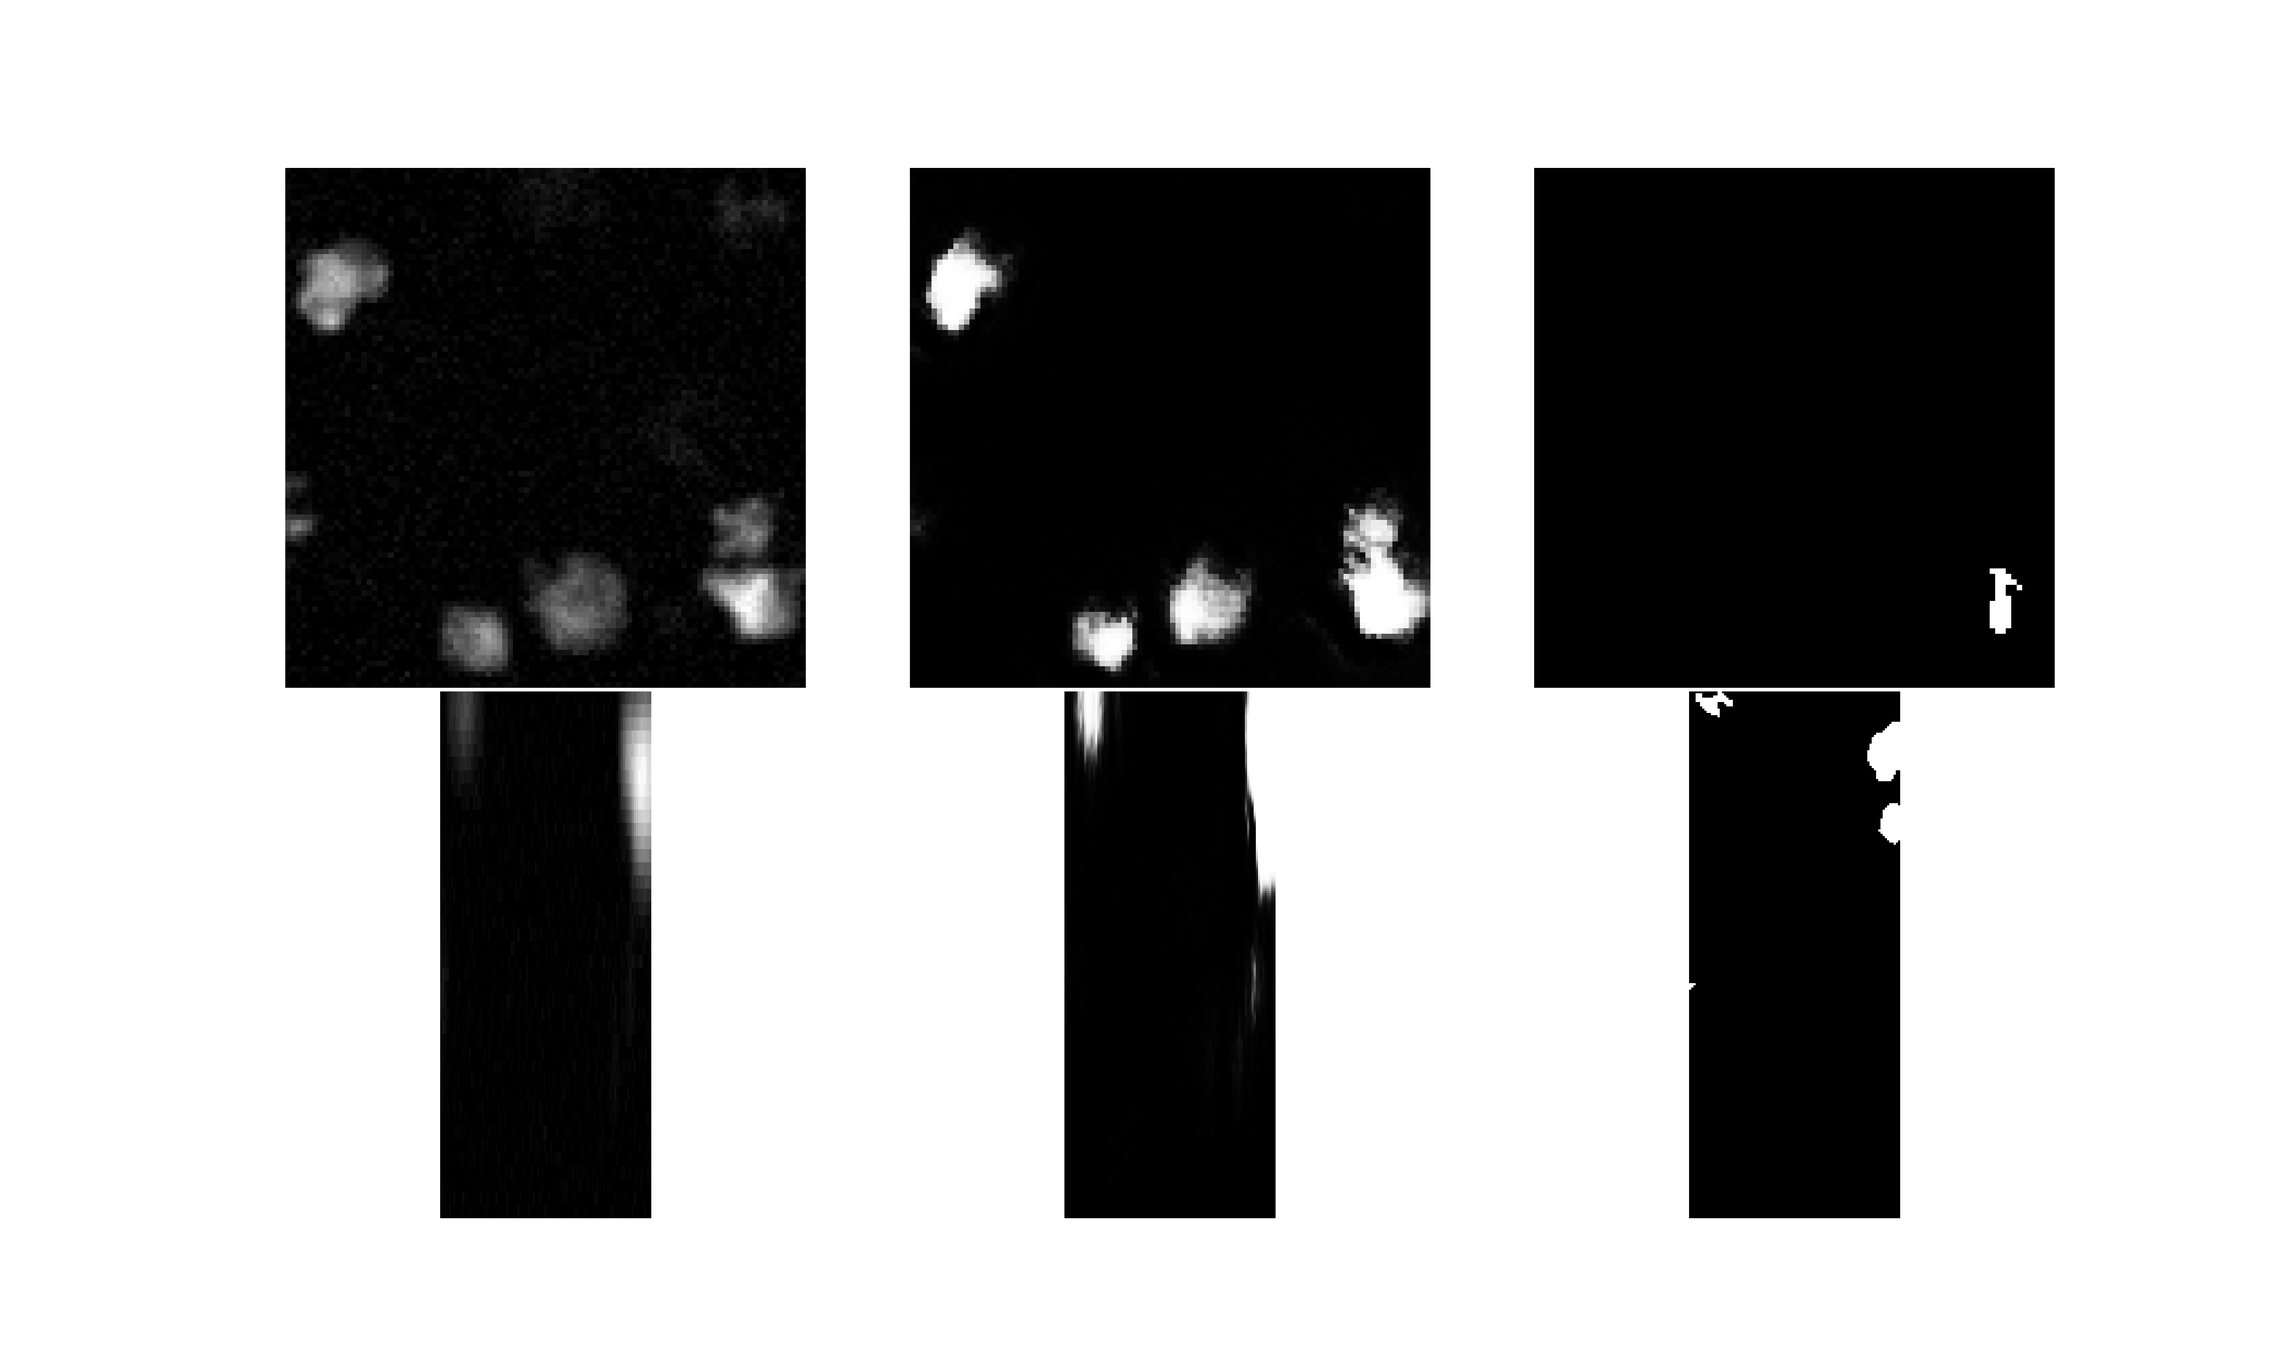
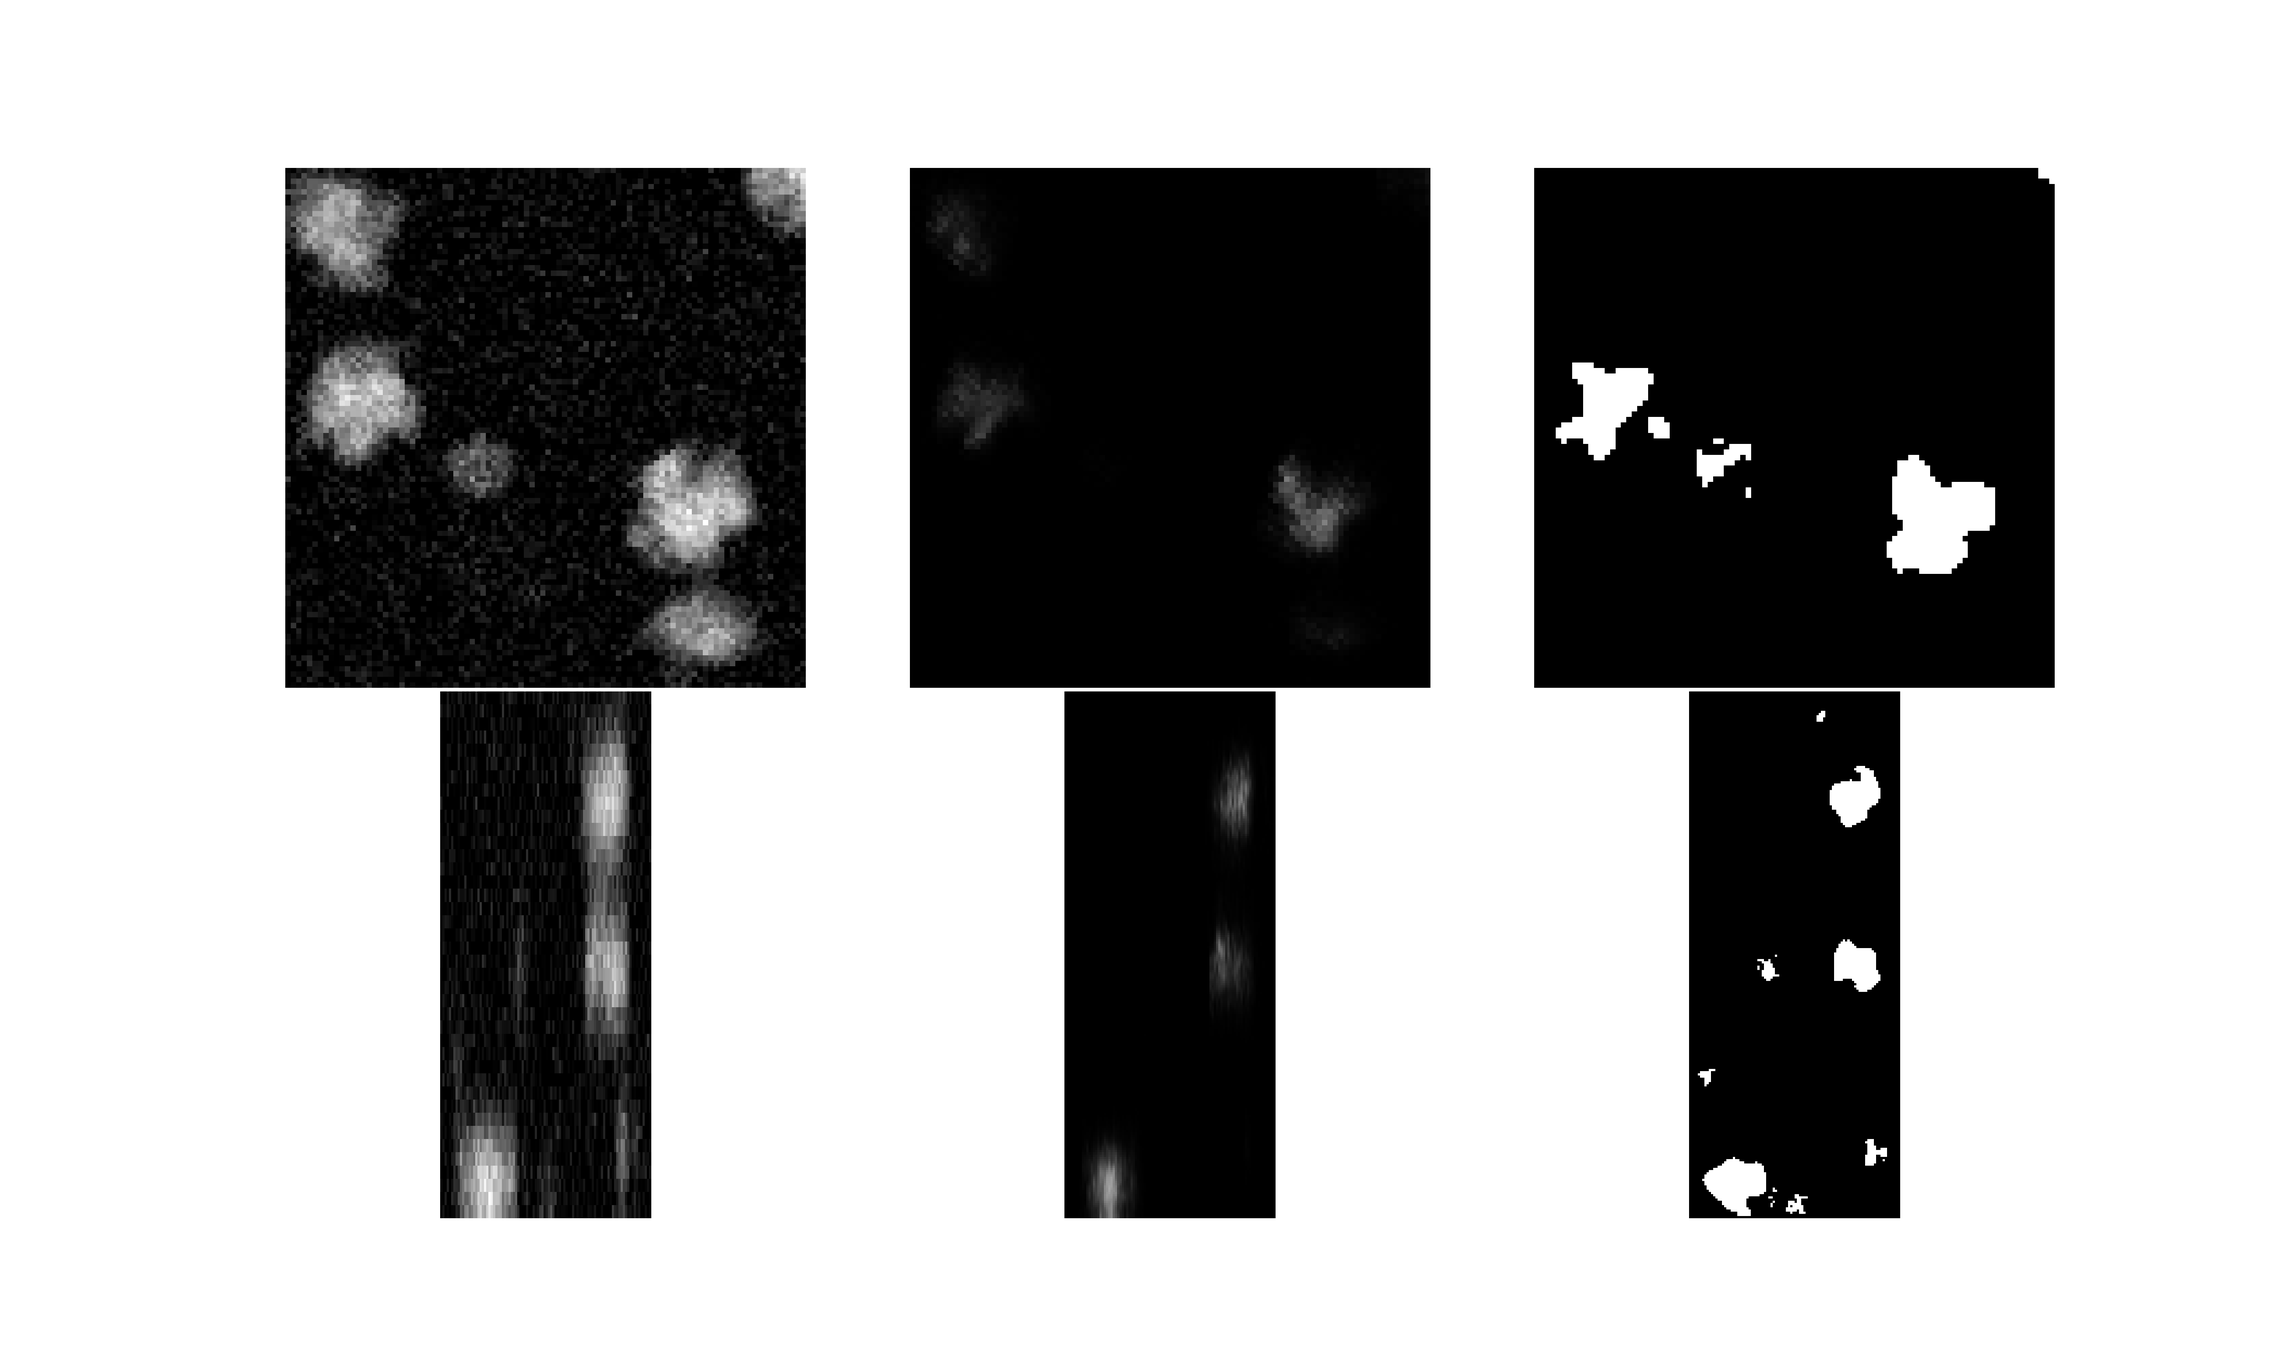
219 inference done

diff --git a/inference.py b/inference.py
@@ -1,5 +1,7 @@
+import os
 import torch
 import torch.nn as nn
+from torch.utils.data import DataLoader
 import matplotlib.pyplot as plt
 from dataset import LabelandBlurParamsDataset, gen_imaging_parameters, Augmentation
 import model
@@ -31,12 +33,12 @@ params               = {"mu_z"   : 0.2    ,
                         "scale"  : 6
                         }
 
-params_ranges = {"mu_z"   : [0,   1., 0.2,  0.001 ],
-                 "sig_z"  : [0,   1., 0.2 ,  0.001 ],
-                 "bet_z"  : [0 , 22.,  20.  ,  0.001 ],
-                 "bet_xy" : [0,   2.,   1. ,  0.001 ],
-                 "alpha"  : [0,   2.,   1. ,  0.001 ],
-                 "sig_eps": [0, 0.012, 0.01, 0.001 ],
+params_ranges = {"mu_z"   : [0,   1, 0.2  ,  0.0001 ],
+                 "sig_z"  : [0,   1, 0.2  ,  0.0001 ],
+                 "bet_z"  : [0 , 22,  20  ,  0.0001 ],
+                 "bet_xy" : [0,   2,   1. ,  0.0001 ],
+                 "alpha"  : [0,   2,   1. ,  0.0001 ],
+                 "sig_eps": [0, 0.012, 0.01, 0.0001 ],
                  "scale"  : [6]
                  }
 
@@ -45,7 +47,6 @@ param_scales = {"mu_z"   :  1,
                 "bet_z"  : 22,
                 "bet_xy" :  2,
                 "alpha"  :  2,}
-
 
 image_size = (1, 1, 240,  96,  96)
 original_cropsize = [360, 120, 120]
@@ -62,13 +63,14 @@ JNet = model.JNet(hidden_channels_list  = hidden_channels_list ,
                   apply_vq              = False                ,
                   )
 JNet = JNet.to(device = device)
+JNet.load_state_dict(torch.load(f'model/{model_name}.pt'), strict=False)
 
 val_dataset   = LabelandBlurParamsDataset(folderpath           = "_var_num_beadsdataset"                  ,
                                           size                 = (1200, 500, 500)                         ,
                                           cropsize             = original_cropsize                        ,
-                                          I                    = 10                                       ,
+                                          I                    = 20                                       ,
                                           low                  = 16                                       ,
-                                          high                 = 19                                       ,
+                                          high                 = 20                                       ,
                                           imaging_function     = JNet.image                               ,
                                           imaging_params_range = params_ranges                            ,
                                           validation_params    = gen_imaging_parameters(params_ranges)    ,
@@ -93,14 +95,22 @@ augment_param     = {"mask"          : False            ,
 
 val_augment = Augmentation(augment_param)
 
-JNet.load_state_dict(torch.load(f'model/{model_name}.pt'), strict=False)
+val_loader  = DataLoader(val_dataset                   ,
+                         batch_size  = 4               ,
+                         shuffle     = False           ,
+                         pin_memory  = True            ,
+                         num_workers = os.cpu_count()  ,
+                         )
+
 JNet.eval()
-for n in range(0,5):
-    label  = val_dataset[n][0].to(device = device)
-    params = val_dataset[n][1]
-    label = label.unsqueeze(0)
+count = 0
+for val_data in val_loader:
+    
+    label  = val_data[0].to(device = device)
+    params = val_data[1]
     image  = JNet.image.sample_from_params(label, params).float()
     image, label = val_augment.crop(image, label)
+    JNet.set_upsample_rate(params["scale"][0])
     outdict= JNet(image)
     output = outdict["enhanced_image"]
     reconst= outdict["reconstruction"]
@@ -108,70 +118,72 @@ for n in range(0,5):
     est_params = outdict["blur_parameter"]
     lossfunc = nn.BCELoss()
     print(lossfunc(output.detach().cpu(), label.detach().cpu()))
-    
-    image   = image.squeeze(0).detach().cpu().numpy()
-    label   = label.squeeze(0).detach().cpu().numpy()
-    output  = output.squeeze(0).detach().cpu().numpy()
-    reconst = reconst.squeeze(0).detach().cpu().numpy()
-    fig = plt.figure(figsize=(25, 15))
-    ax1 = fig.add_subplot(231)
-    ax2 = fig.add_subplot(232)
-    ax3 = fig.add_subplot(233)
-    ax4 = fig.add_subplot(234)
-    ax5 = fig.add_subplot(235)
-    ax6 = fig.add_subplot(236)
-    #ax7 = fig.add_subplot(247)
-    #ax8 = fig.add_subplot(248)
-    ax1.set_axis_off()
-    ax2.set_axis_off()
-    ax3.set_axis_off()
-    ax4.set_axis_off()
-    ax5.set_axis_off()
-    ax6.set_axis_off()
-    #ax7.set_axis_off()
-    #ax8.set_axis_off()
-    #ax1.set_title('plain\nreconstruct image')
-    #ax2.set_title('plain\noriginal image')
-    #ax3.set_title('plain\nsegmentation result')
-    #ax4.set_title('plain\nlabel')
-    #ax5.set_title('depth\nreconstruct')
-    #ax6.set_title('depth\noriginal image')
-    #ax7.set_title('depth\nsegmentation result')
-    #ax8.set_title('depth\nlabel')
-    plt.subplots_adjust(hspace=-0.0)
-    if partial is not None:
-        ax1.imshow(reconst[0, partial[0]+j_s, :, :],
-                cmap='gray', vmin=0.0, vmax=1.0, aspect=1)
-        ax2.imshow(image[0, partial[0]+j_s, :, :].to(device='cpu'),
-                cmap='gray', vmin=0.0, vmax=1.0, aspect=1)
-        ax3.imshow(output[0, 0, partial[0]+j_s, :, :],
-                cmap='gray', vmin=0.0, vmax=1.0, aspect=1)
-        ax4.imshow(label[0, partial[0]+j, :, :].to(device='cpu'),
-                cmap='gray', vmin=0.0, vmax=1.0, aspect=1)
-        ax5.imshow(reconst[0, partial[0]:partial[1], i, :],
-                cmap='gray', vmin=0.0, vmax=1.0, aspect=scale)
-        ax6.imshow(image[0, partial[0]:partial[1], i, :].to(device='cpu'),
-                cmap='gray', vmin=0.0, vmax=1.0, aspect=scale)
-        #ax7.imshow(output[0, 0, partial[0]:partial[1], i, :],
-        #        cmap='gray', vmin=0.0, vmax=1.0, aspect=1)
-        #ax8.imshow(label[0, partial[0]:partial[1], i, :].to(device='cpu'),
-        #        cmap='gray', vmin=0.0, vmax=1.0, aspect=1)
-    else:
-        #ax1.imshow(reconst[0, j_s, :, :],
-        #        cmap='gray', vmin=0.0, vmax=1.0, aspect=1)
-        ax1.imshow(image[0, j_s, :, :],
-                cmap='gray', vmin=0.0, aspect=1)
-        ax2.imshow(output[0, j, :, :],
-                cmap='gray', vmin=0.0, vmax=1.0, aspect=1)
-        ax3.imshow(label[0, j, :, :],
-                cmap='gray', vmin=0.0, vmax=1.0, aspect=1)
-        #ax5.imshow(reconst[0, :, i, :],
-        #        cmap='gray', vmin=0.0, vmax=1.0, aspect=scale)
-        ax4.imshow(image[0, :, i, :],
-                cmap='gray', vmin=0.0, aspect=scale)
-        ax5.imshow(output[0, :, i, :],
-                cmap='gray', vmin=0.0, vmax=1.0, aspect=1)
-        ax6.imshow(label[0, :, i, :],
-                cmap='gray', vmin=0.0, vmax=1.0, aspect=1)
-    plt.savefig(f'result/{model_name}_result{n}.png', format='png', dpi=250)
-    
+    num = image.shape[0]
+    print(image.shape)
+    for n in range(num):
+        _image   = image[n].detach().cpu().numpy()
+        _label   = label[n].detach().cpu().numpy()
+        _output  = output[n].detach().cpu().numpy()
+        _reconst = reconst[n].detach().cpu().numpy()
+        fig = plt.figure(figsize=(25, 15))
+        ax1 = fig.add_subplot(231)
+        ax2 = fig.add_subplot(232)
+        ax3 = fig.add_subplot(233)
+        ax4 = fig.add_subplot(234)
+        ax5 = fig.add_subplot(235)
+        ax6 = fig.add_subplot(236)
+        #ax7 = fig.add_subplot(247)
+        #ax8 = fig.add_subplot(248)
+        ax1.set_axis_off()
+        ax2.set_axis_off()
+        ax3.set_axis_off()
+        ax4.set_axis_off()
+        ax5.set_axis_off()
+        ax6.set_axis_off()
+        #ax7.set_axis_off()
+        #ax8.set_axis_off()
+        #ax1.set_title('plain\nreconstruct image')
+        #ax2.set_title('plain\noriginal image')
+        #ax3.set_title('plain\nsegmentation result')
+        #ax4.set_title('plain\nlabel')
+        #ax5.set_title('depth\nreconstruct')
+        #ax6.set_title('depth\noriginal image')
+        #ax7.set_title('depth\nsegmentation result')
+        #ax8.set_title('depth\nlabel')
+        plt.subplots_adjust(hspace=-0.0)
+        if partial is not None:
+            ax1.imshow(_reconst[0, partial[0]+j_s, :, :],
+                    cmap='gray', vmin=0.0, vmax=1.0, aspect=1)
+            ax2.imshow(_image[0, partial[0]+j_s, :, :].to(device='cpu'),
+                    cmap='gray', vmin=0.0, vmax=1.0, aspect=1)
+            ax3.imshow(_output[0, 0, partial[0]+j_s, :, :],
+                    cmap='gray', vmin=0.0, vmax=1.0, aspect=1)
+            ax4.imshow(_label[0, partial[0]+j, :, :].to(device='cpu'),
+                    cmap='gray', vmin=0.0, vmax=1.0, aspect=1)
+            ax5.imshow(_reconst[0, partial[0]:partial[1], i, :],
+                    cmap='gray', vmin=0.0, vmax=1.0, aspect=scale)
+            ax6.imshow(_image[0, partial[0]:partial[1], i, :].to(device='cpu'),
+                    cmap='gray', vmin=0.0, vmax=1.0, aspect=scale)
+            #ax7.imshow(output[0, 0, partial[0]:partial[1], i, :],
+            #        cmap='gray', vmin=0.0, vmax=1.0, aspect=1)
+            #ax8.imshow(label[0, partial[0]:partial[1], i, :].to(device='cpu'),
+            #        cmap='gray', vmin=0.0, vmax=1.0, aspect=1)
+        else:
+            #ax1.imshow(reconst[0, j_s, :, :],
+            #        cmap='gray', vmin=0.0, vmax=1.0, aspect=1)
+            ax1.imshow(_image[0, j_s, :, :],
+                    cmap='gray', vmin=0.0, aspect=1)
+            ax2.imshow(_output[0, j, :, :],
+                    cmap='gray', vmin=0.0, vmax=1.0, aspect=1)
+            ax3.imshow(_label[0, j, :, :],
+                    cmap='gray', vmin=0.0, vmax=1.0, aspect=1)
+            #ax5.imshow(reconst[0, :, i, :],
+            #        cmap='gray', vmin=0.0, vmax=1.0, aspect=scale)
+            ax4.imshow(_image[0, :, i, :],
+                    cmap='gray', vmin=0.0, aspect=scale)
+            ax5.imshow(_output[0, :, i, :],
+                    cmap='gray', vmin=0.0, vmax=1.0, aspect=1)
+            ax6.imshow(_label[0, :, i, :],
+                    cmap='gray', vmin=0.0, vmax=1.0, aspect=1)
+        plt.savefig(f'result/{model_name}_result{count}_{n}.png', format='png', dpi=250)
+    count += 1

diff --git a/train_runner.py b/train_runner.py
@@ -43,7 +43,7 @@ param_scales = {"mu_z"   :  1,
 
 paramscaler = ParamScaler(param_scales)
 
-model_name           = 'JNet_221_x6_param_est_1'
+model_name           = 'JNet_223_x6_param_est_1'
 hidden_channels_list = [16, 32, 64, 128, 256]
 nblocks              = 2
 s_nblocks            = 2
@@ -75,7 +75,7 @@ JNet = model.JNet(hidden_channels_list  = hidden_channels_list ,
                   apply_vq              = False                ,
                   )
 JNet = JNet.to(device = device)
-#JNet.load_state_dict(torch.load('model/JNet_83_x1_partial.pt'), strict=False)
+JNet.load_state_dict(torch.load('model/JNet_219_x6.pt'), strict=False)
 params = [i for i in JNet.parameters()][:-4]
 #params = JNet.parameters()
 
@@ -95,7 +95,7 @@ param_loss_fn        = nn.MSELoss()
 train_dataset = LabelandBlurParamsDataset(folderpath            = "_var_num_beadsdataset"                 ,
                                           size                 = (1200, 500, 500)                         ,
                                           cropsize             = original_cropsize                        ,
-                                          I                    = 200                                      ,
+                                          I                    = 8                                      ,
                                           low                  = 0                                        ,
                                           high                 = 16                                       ,
                                           imaging_function     = JNet.image                               ,
@@ -113,7 +113,7 @@ train_dataset = LabelandBlurParamsDataset(folderpath            = "_var_num_bead
 val_dataset   = LabelandBlurParamsDataset(folderpath           = "_var_num_beadsdataset"                  ,
                                           size                 = (1200, 500, 500)                         ,
                                           cropsize             = original_cropsize                        ,
-                                          I                    = 10                                       ,
+                                          I                    = 20                                       ,
                                           low                  = 16                                       ,
                                           high                 = 19                                       ,
                                           imaging_function     = JNet.image                               ,

diff --git a/train_loop.py b/train_loop.py
@@ -71,22 +71,23 @@ def train_loop(n_epochs, optimizer, model, loss_fn, param_loss_fn, train_loader,
             loss, midloss = branch_calc_loss(out, rec, image, label,
                                              loss_fn, midloss_fn, partial,
                                              reconstruct, check_middle)
-            paramloss = param_loss_fn(est_params, target_params)
+            #paramloss = param_loss_fn(est_params, target_params)
             if qloss is not None:
                 loss += qloss
-            loss += paramloss / 1
+            #print(paramloss, est_params, target_params)
+            #loss += paramloss / 1
             optimizer.zero_grad()
-            loss.backward(retain_graph=True)
+            loss.backward(retain_graph=False)
             optimizer.step()
             loss_sum += loss.detach().item()
             if check_middle:
                 midloss_sum += midloss.detach().item()
         model.eval()
         with torch.no_grad():
-            for image, label in val_loader:
+            for val_data in val_loader:
                 if is_randomblur:
-                    label  = train_data[0].to(device = device)
-                    params = train_data[1]
+                    label  = val_data[0].to(device = device)
+                    params = val_data[1]
                     image  = model.image.sample_from_params(label, params).float()
                     target_params = torch.empty(b, len(params) - 2)
                     for i, p in enumerate(plist[:len(params) - 2]):
@@ -94,8 +95,8 @@ def train_loop(n_epochs, optimizer, model, loss_fn, param_loss_fn, train_loader,
                     target_params = target_params.to(device)
                     model.set_upsample_rate(params["scale"][0])
                 else:
-                    image    = train_data[0].to(device = device)
-                    label    = train_data[1].to(device = device)
+                    image    = val_data[0].to(device = device)
+                    label    = val_data[1].to(device = device)
                 image, label = val_augment.crop(image, label)
                 image = val_augment(image)
                 outdict = model(image)

diff --git a/model.py b/model.py
@@ -156,7 +156,6 @@ class BlurParameterEstimator(nn.Module):
                                      nn.ReLU(inplace=False)               ,
                                      nn.Linear(in_features  = mid_dim   ,
                                                out_features = params_dim,),
-                                     nn.Sigmoid()                         ,
                                      ])
     def forward(self, x):
         x_shape = x.shape
